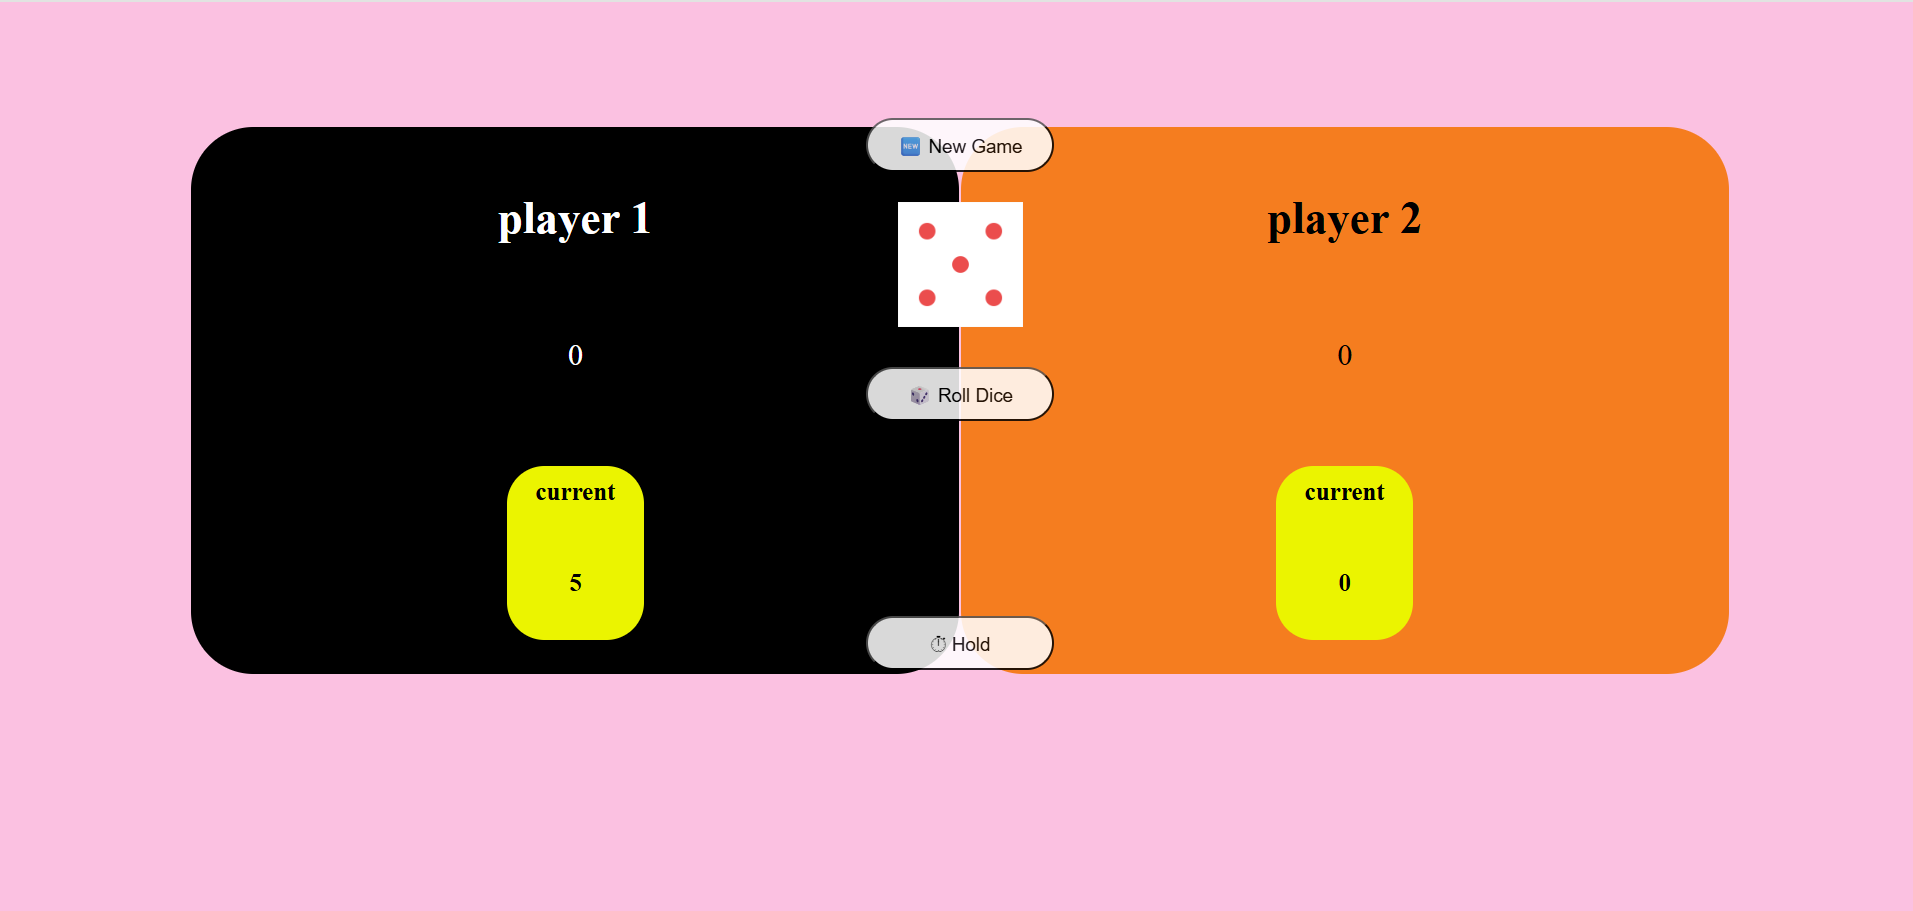
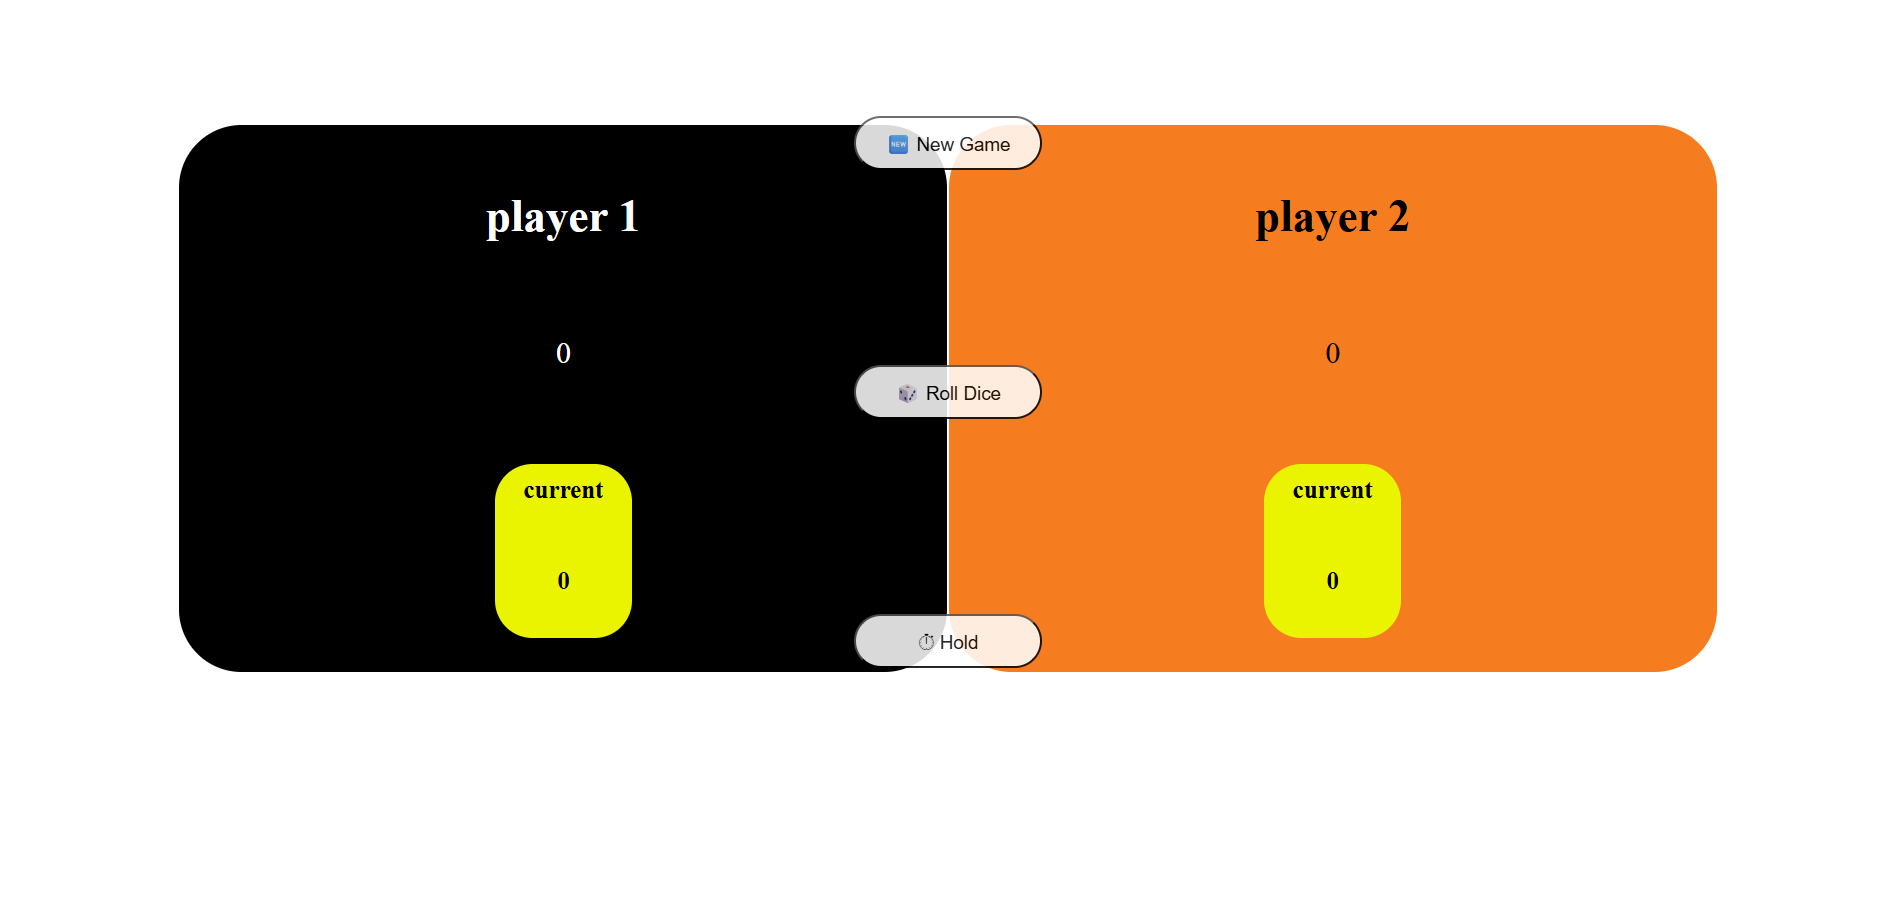
final changes ui

diff --git a/style.css b/style.css
@@ -12,7 +12,7 @@
   --tertiary: "#EBF400";
 }
 body {
-  background-color: #fbc1e1;
+  background-color: white;
   position: relative;
 }
 .player {
